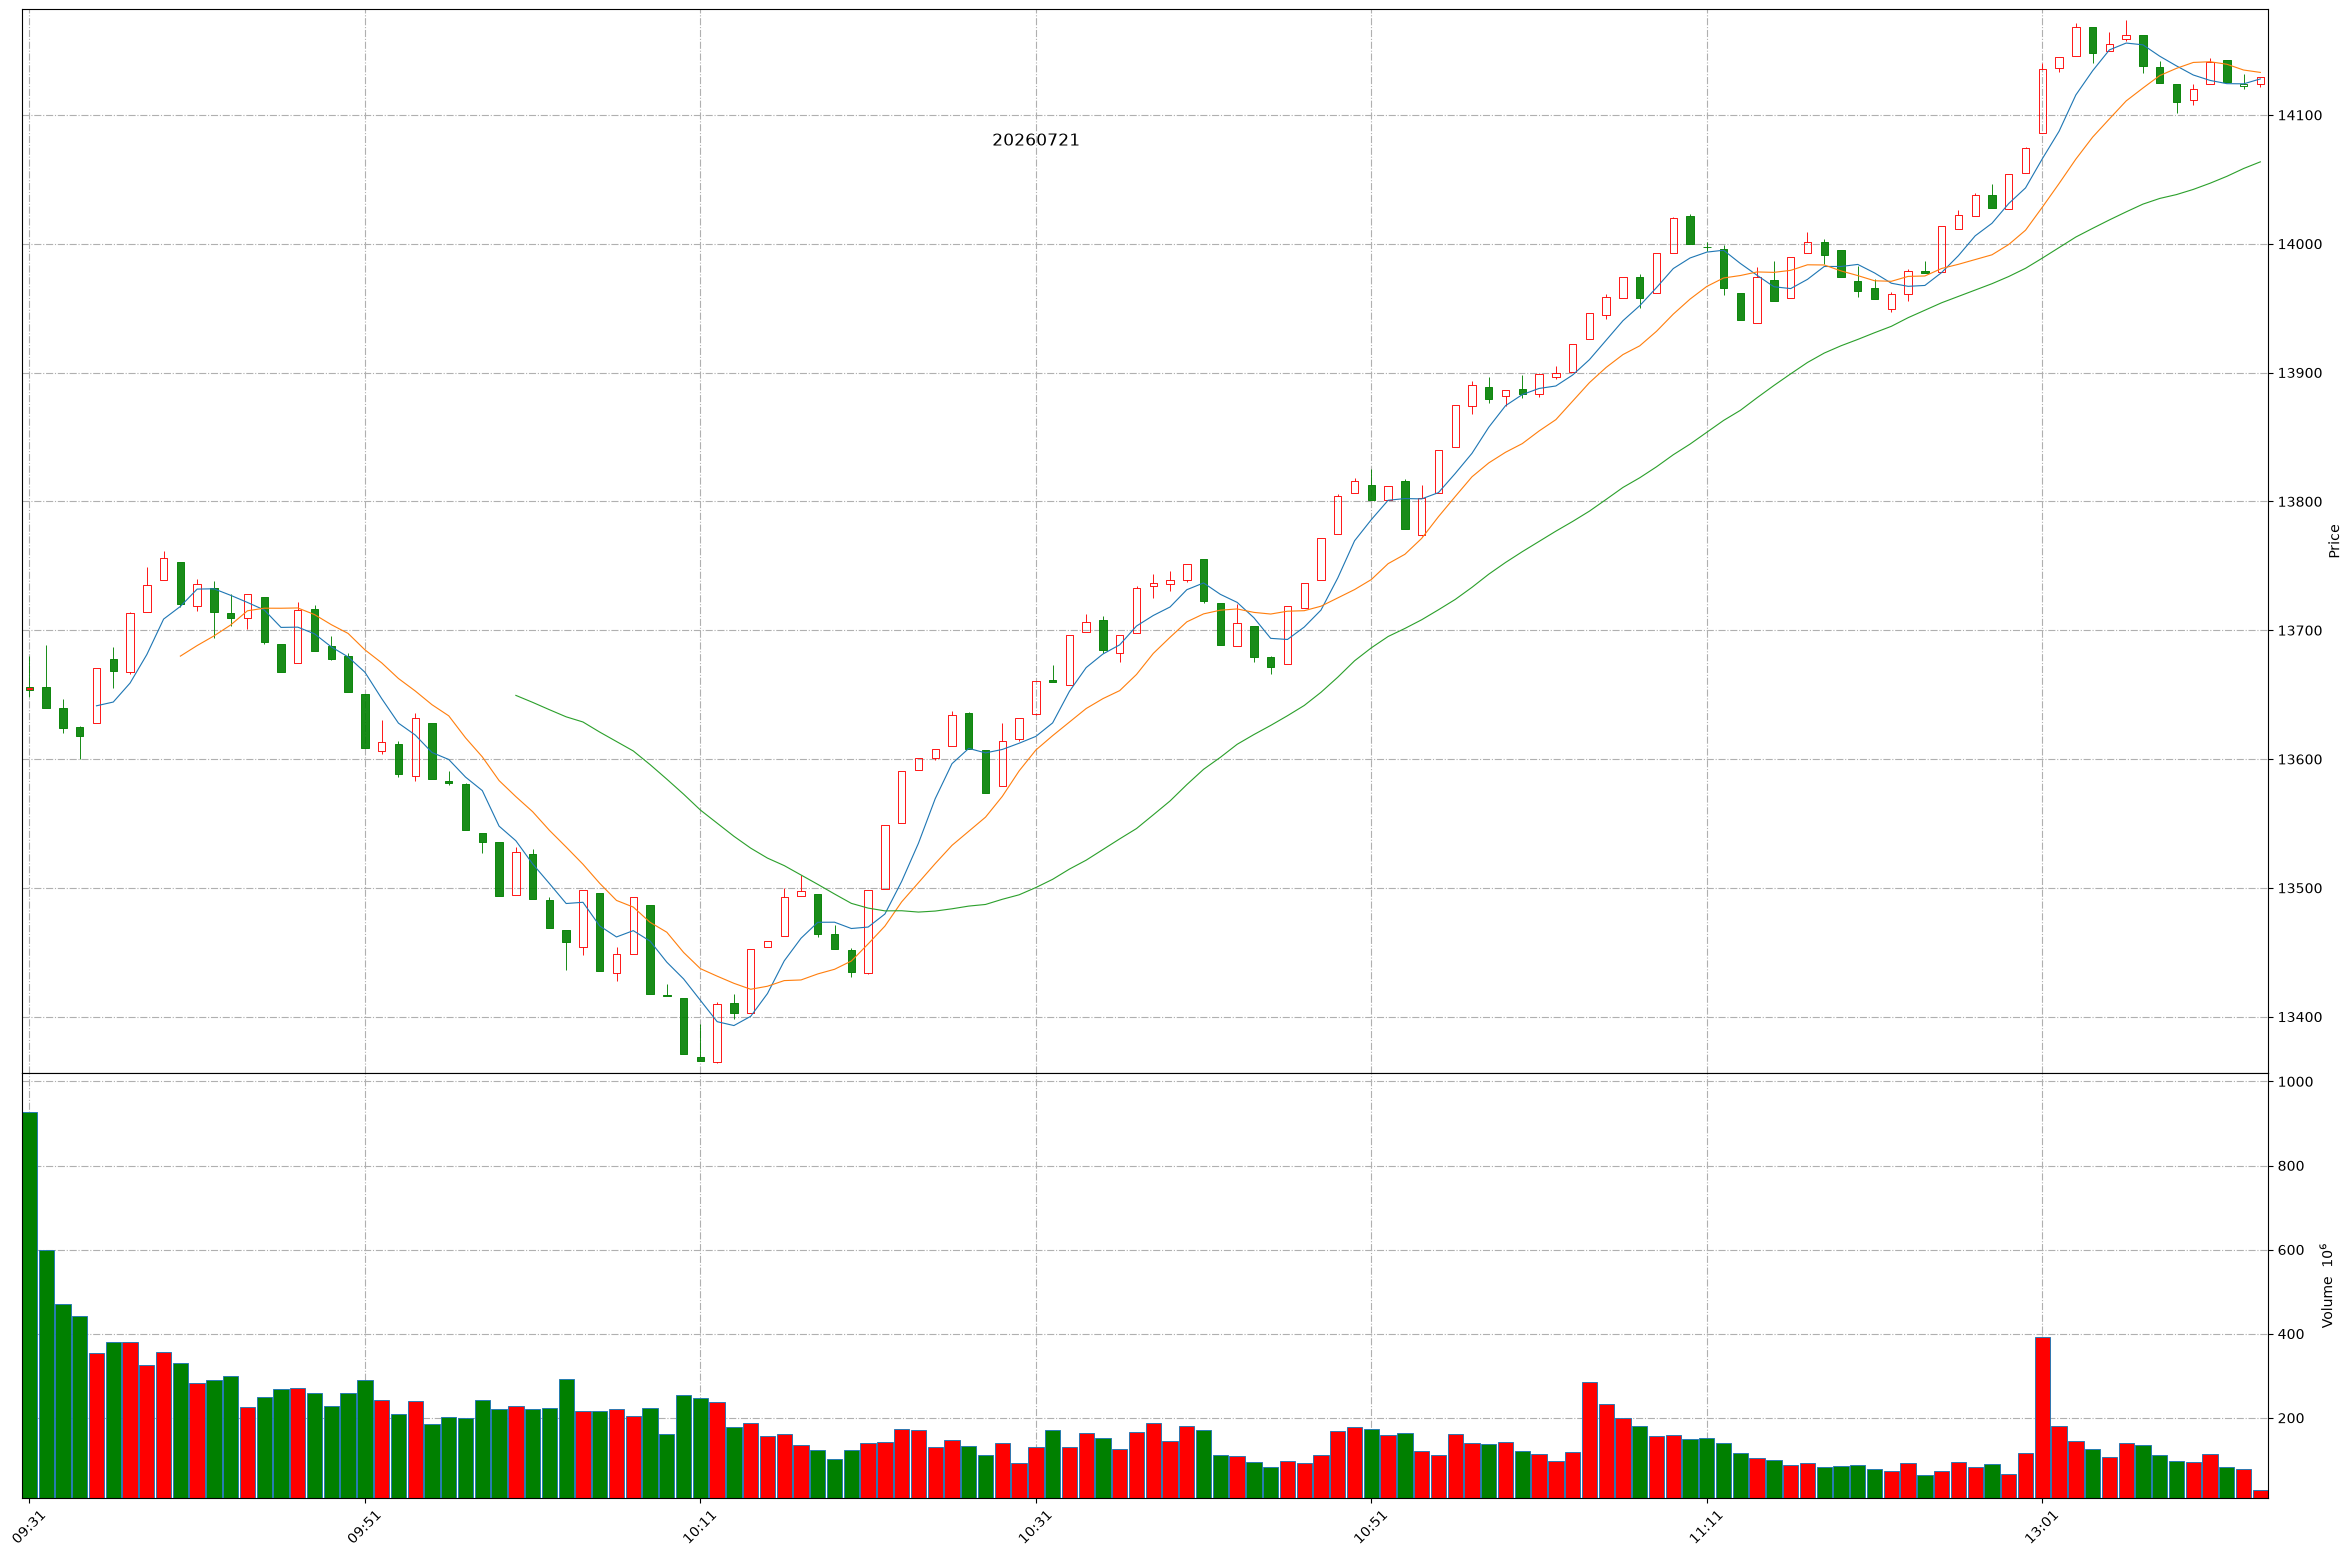
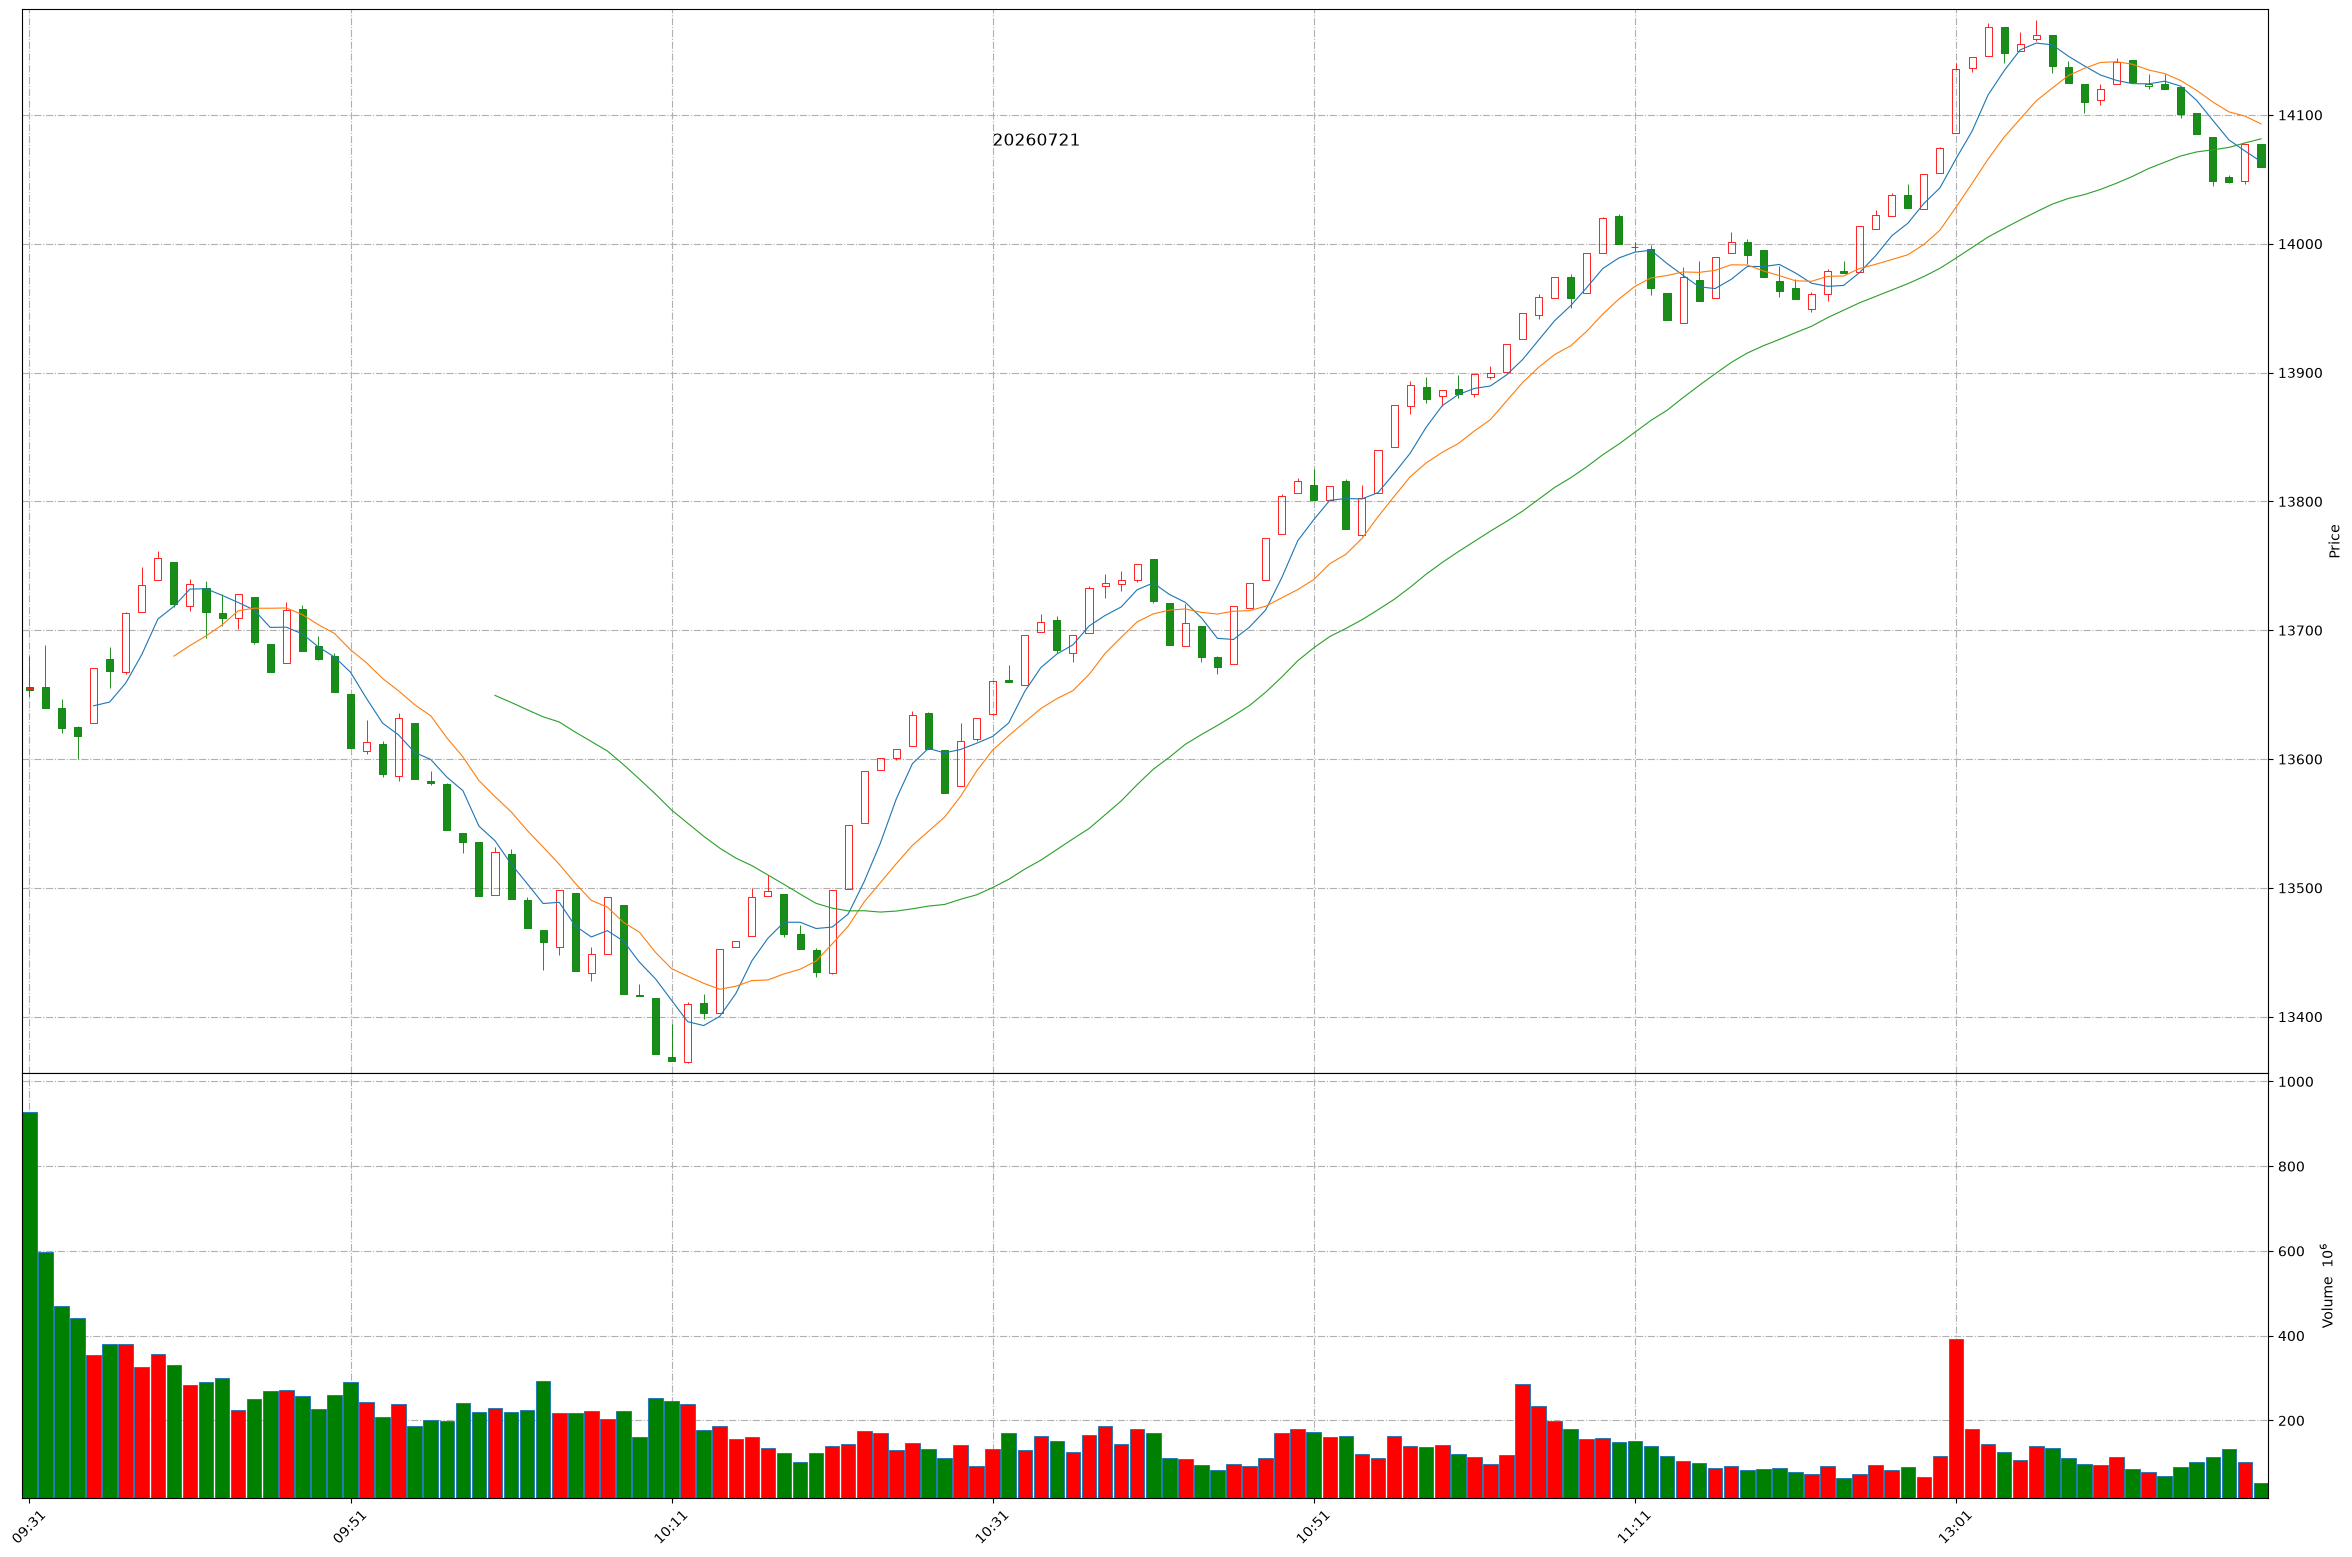
Github action update at 2026-07-21 13:19:56.

diff --git a/README.md b/README.md
@@ -1,11 +1,11 @@
 
 # Daily-A-share-market-quotes 每日 A 股指数（5min 更新）- 20260721
 
-### 上证指数 20260721 13:13
+### 上证指数 20260721 13:19
 ![](./fig/2026/7/20260721-sh000001.png)
 
-### 深证成指 20260721 13:13
+### 深证成指 20260721 13:19
 ![](./fig/2026/7/20260721-sz399001.png)
 
-### 北证50 20260721 13:13
+### 北证50 20260721 13:19
 ![](./fig/2026/7/20260721-bj899050.png)
